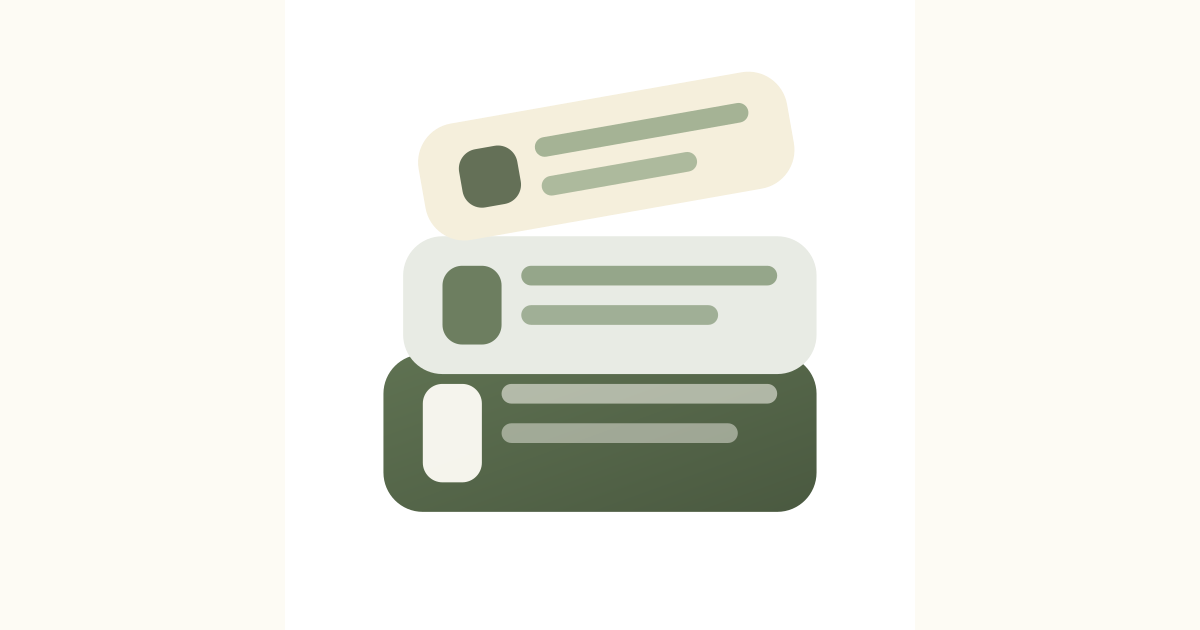
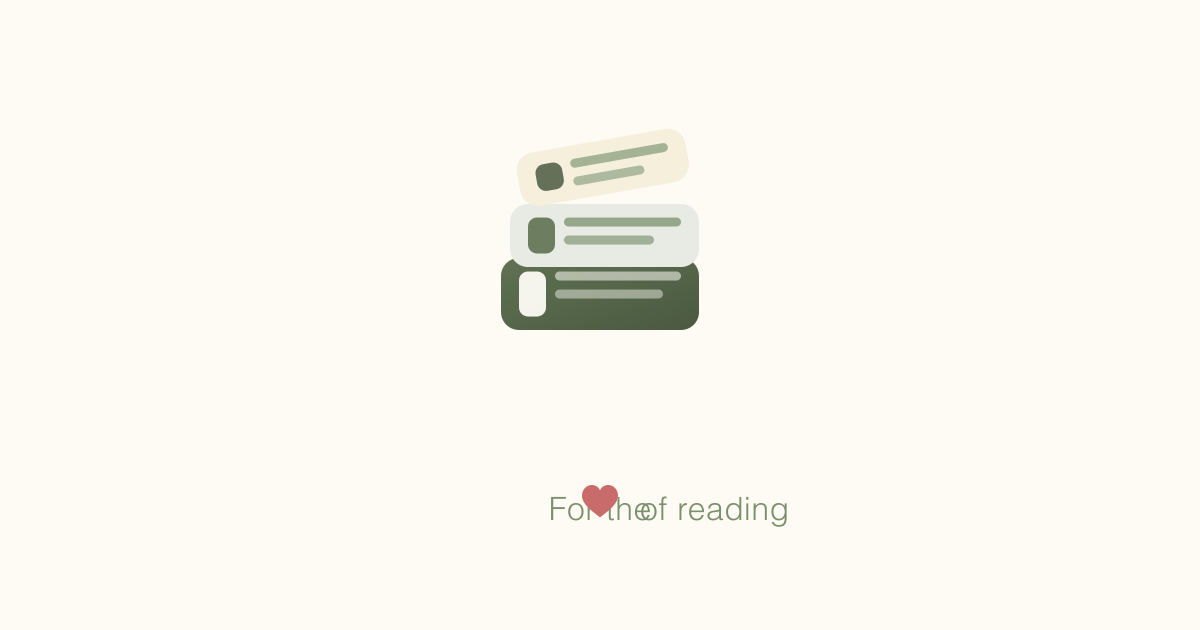
design: update og-image with cream background and tagline
- Full cream background (#FDFBF4) to match site
- Book stack icon centered and scaled up
- Added tagline: 'For the ♥ of reading' with heart in brand color (#c96b6b)
- Better visual consistency with site design

Changed region(s): [[0.3083, 0.1508, 0.6783, 0.8444]]

diff --git a/create-og-image.js b/create-og-image.js
@@ -1,0 +1,86 @@
+// Create og-image.png with book stack icon and tagline
+import fs from 'fs';
+import path from 'path';
+import { fileURLToPath } from 'url';
+import sharp from 'sharp';
+
+const __filename = fileURLToPath(import.meta.url);
+const __dirname = path.dirname(__filename);
+
+const svgPath = path.join(__dirname, 'public', 'favicon.svg');
+const outputPath = path.join(__dirname, 'public', 'og-image.png');
+
+// Read the favicon SVG
+const faviconSvg = fs.readFileSync(svgPath, 'utf-8');
+
+// Create a new SVG with the book stack centered and tagline below
+const ogSvg = `
+<svg width="1200" height="630" xmlns="http://www.w3.org/2000/svg">
+  <defs>
+    <linearGradient id="cover" x1="0" y1="0" x2="1" y2="1">
+      <stop offset="0" stop-color="#5F7252"/>
+      <stop offset="1" stop-color="#4A5940"/>
+    </linearGradient>
+  </defs>
+  
+  <!-- Cream background -->
+  <rect width="1200" height="630" fill="#FDFBF4"/>
+  
+  <!-- Book stack icon (scaled up and centered) -->
+  <g transform="translate(600, 240) scale(4.5)">
+    <g transform="translate(-32, -32)">
+      <!-- bottom book -->
+      <rect x="10" y="36" width="44" height="16" rx="4" fill="url(#cover)"/>
+      <rect x="14" y="39" width="6" height="10" rx="2" fill="#FDFBF4" opacity="0.95"/>
+      <rect x="22" y="39" width="28" height="2" rx="1" fill="#FDFBF4" opacity="0.55"/>
+      <rect x="22" y="43" width="24" height="2" rx="1" fill="#FDFBF4" opacity="0.45"/>
+
+      <!-- middle book -->
+      <rect x="12" y="24" width="42" height="14" rx="4" fill="#E8EBE4"/>
+      <rect x="16" y="27" width="6" height="8" rx="2" fill="#5F7252" opacity="0.9"/>
+      <rect x="24" y="27" width="26" height="2" rx="1" fill="#7A8F6C" opacity="0.75"/>
+      <rect x="24" y="31" width="20" height="2" rx="1" fill="#7A8F6C" opacity="0.65"/>
+
+      <!-- top book (slightly angled) -->
+      <g transform="translate(32 18) rotate(-10) translate(-32 -18)">
+        <rect x="14" y="10" width="38" height="12" rx="4" fill="#F5EFDC"/>
+        <rect x="18" y="13" width="6" height="6" rx="2" fill="#4A5940" opacity="0.85"/>
+        <rect x="26" y="13" width="22" height="2" rx="1" fill="#96A888" opacity="0.85"/>
+        <rect x="26" y="17" width="16" height="2" rx="1" fill="#96A888" opacity="0.75"/>
+      </g>
+    </g>
+  </g>
+  
+  <!-- Tagline: "For the ♥ of reading" -->
+  <text x="600" y="520" font-family="Poppins, -apple-system, sans-serif" font-size="32" font-weight="300" fill="#7A8F6C" text-anchor="middle" letter-spacing="0.5">
+    For the 
+  </text>
+  
+  <!-- Heart icon -->
+  <g transform="translate(600, 485)">
+    <path d="M0 6c0-3.5 2.5-6 5.5-6 2 0 3.8 1.2 4.5 3 0.7-1.8 2.5-3 4.5-3 3 0 5.5 2.5 5.5 6 0 4-4 7.5-10 12-6-4.5-10-8-10-12z" 
+          fill="#c96b6b" 
+          transform="scale(1.8) translate(-10, 0)"/>
+  </g>
+  
+  <text x="640" y="520" font-family="Poppins, -apple-system, sans-serif" font-size="32" font-weight="300" fill="#7A8F6C" text-anchor="start" letter-spacing="0.5">
+    of reading
+  </text>
+</svg>
+`;
+
+// Convert the SVG to PNG
+sharp(Buffer.from(ogSvg))
+  .png()
+  .toFile(outputPath)
+  .then(() => {
+    console.log('✓ Successfully created og-image.png');
+    console.log(`  Output: ${outputPath}`);
+    console.log('  Dimensions: 1200 × 630 pixels');
+    console.log('  Background: #FDFBF4 (cream)');
+    console.log('  Features: Book stack + "For the ♥ of reading" tagline');
+  })
+  .catch(err => {
+    console.error('Error creating OG image:', err);
+    process.exit(1);
+  });
